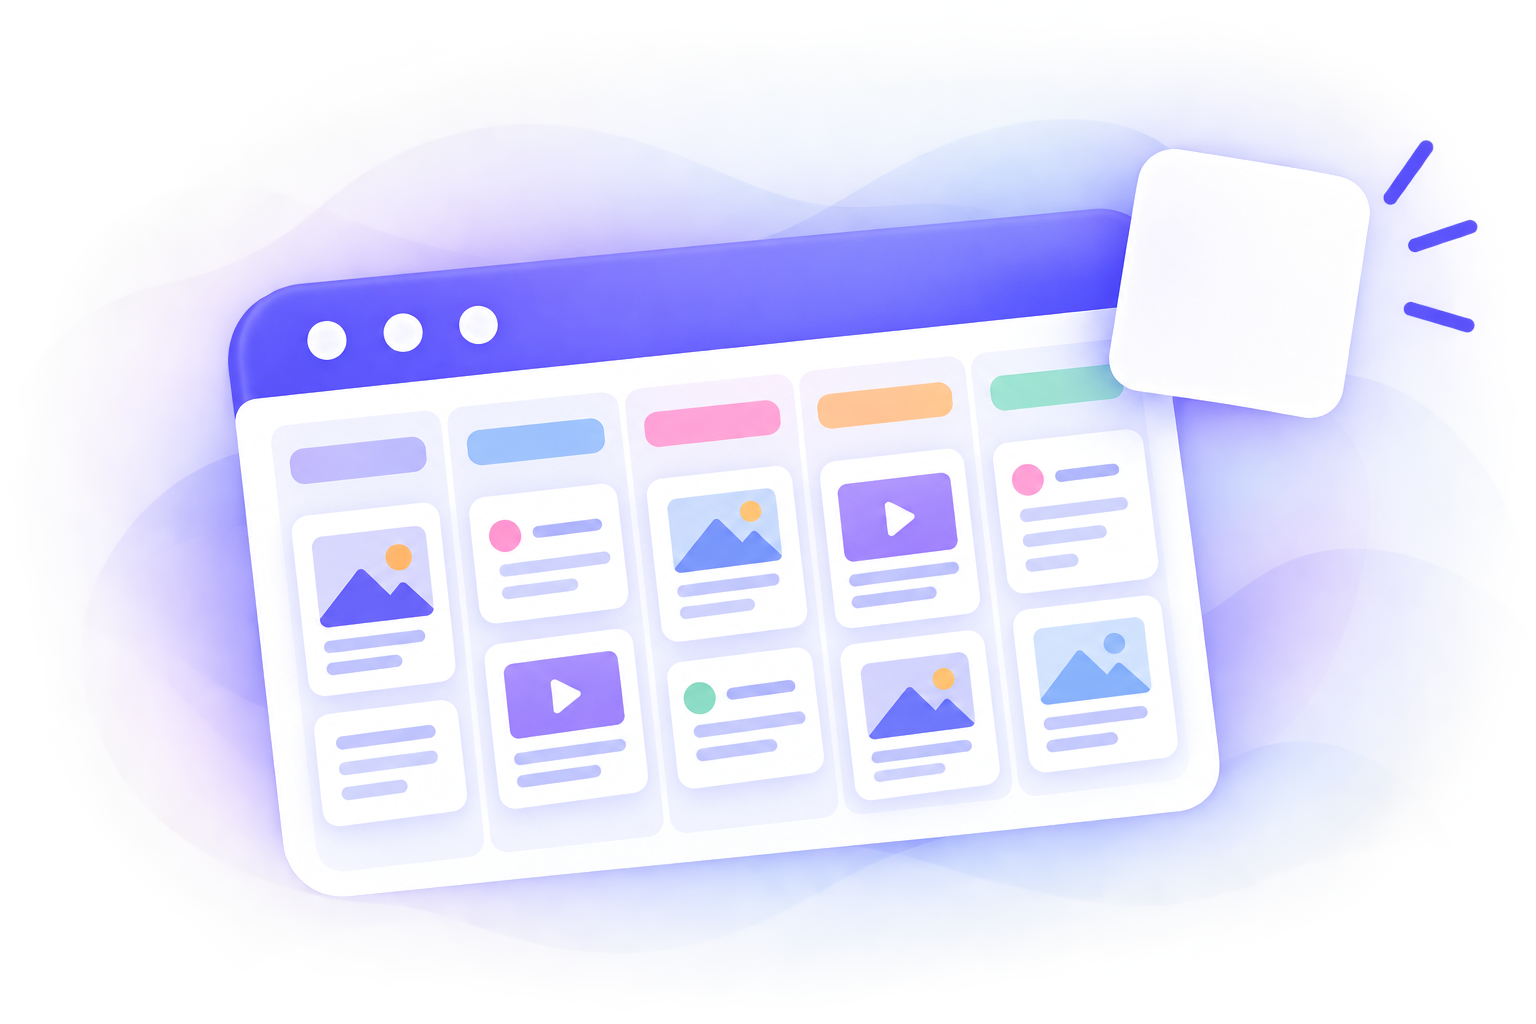
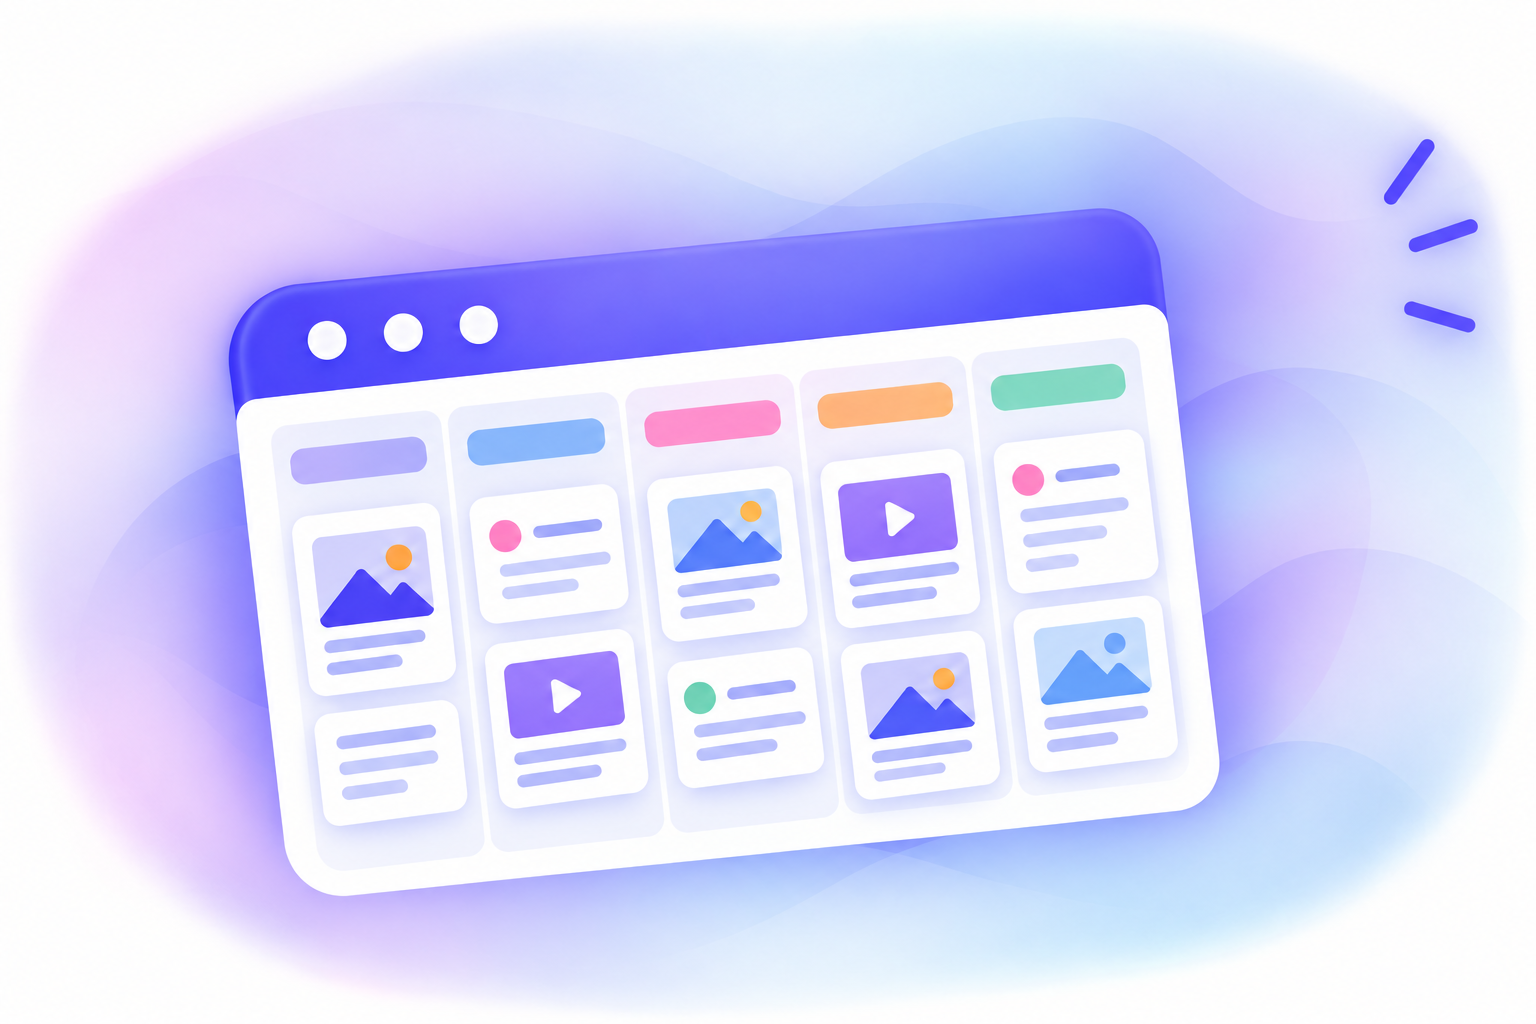
spreelo-144.210-HERO-COUNT-CARD-ASSET

diff --git a/app/styles/140-v144-202-onboarding-reference-rebuild.css b/app/styles/140-v144-202-onboarding-reference-rebuild.css
@@ -1494,3 +1494,80 @@ html body .spreeloRef-date-badge {
     min-height: 56px !important;
   }
 }
+
+/* v144.210 — use the new hero artwork without baked-in count panel,
+   and render the post-count as a real HTML card on top of it. */
+html body .spreeloRef-count {
+  right: 36px !important;
+  top: 14px !important;
+  width: 88px !important;
+  min-height: 90px !important;
+  padding: 10px 8px 10px !important;
+  box-sizing: border-box !important;
+  display: flex !important;
+  flex-direction: column !important;
+  align-items: center !important;
+  justify-content: center !important;
+  border-radius: 22px !important;
+  border: 1.5px solid rgba(122, 102, 228, 0.08) !important;
+  background: #ffffff !important;
+  box-shadow: 0 16px 30px rgba(65, 56, 132, 0.16) !important;
+  transform: rotate(7deg) !important;
+  transform-origin: 50% 50% !important;
+  text-align: center !important;
+}
+
+html body .spreeloRef-count strong {
+  color: #13204f !important;
+  font-size: 37px !important;
+  line-height: .82 !important;
+  font-weight: 900 !important;
+}
+
+html body .spreeloRef-count span {
+  display: block !important;
+  max-width: 64px !important;
+  margin: 3px auto 0 !important;
+  color: #6a53e6 !important;
+  font-size: 13px !important;
+  line-height: 1.02 !important;
+  font-weight: 900 !important;
+  letter-spacing: -.01em !important;
+  text-align: center !important;
+}
+
+html body .spreeloRef-check {
+  right: 28px !important;
+  top: 88px !important;
+  width: 30px !important;
+  height: 30px !important;
+}
+
+@media (max-width: 720px) {
+  html body .spreeloRef-count {
+    right: 28px !important;
+    top: 14px !important;
+    width: 76px !important;
+    min-height: 78px !important;
+    padding: 9px 6px 8px !important;
+    border-radius: 20px !important;
+  }
+
+  html body .spreeloRef-count strong {
+    font-size: 32px !important;
+  }
+
+  html body .spreeloRef-count span {
+    max-width: 56px !important;
+    margin-top: 2px !important;
+    font-size: 11px !important;
+    line-height: 1 !important;
+  }
+
+  html body .spreeloRef-check {
+    right: 21px !important;
+    top: 76px !important;
+    width: 28px !important;
+    height: 28px !important;
+  }
+}
